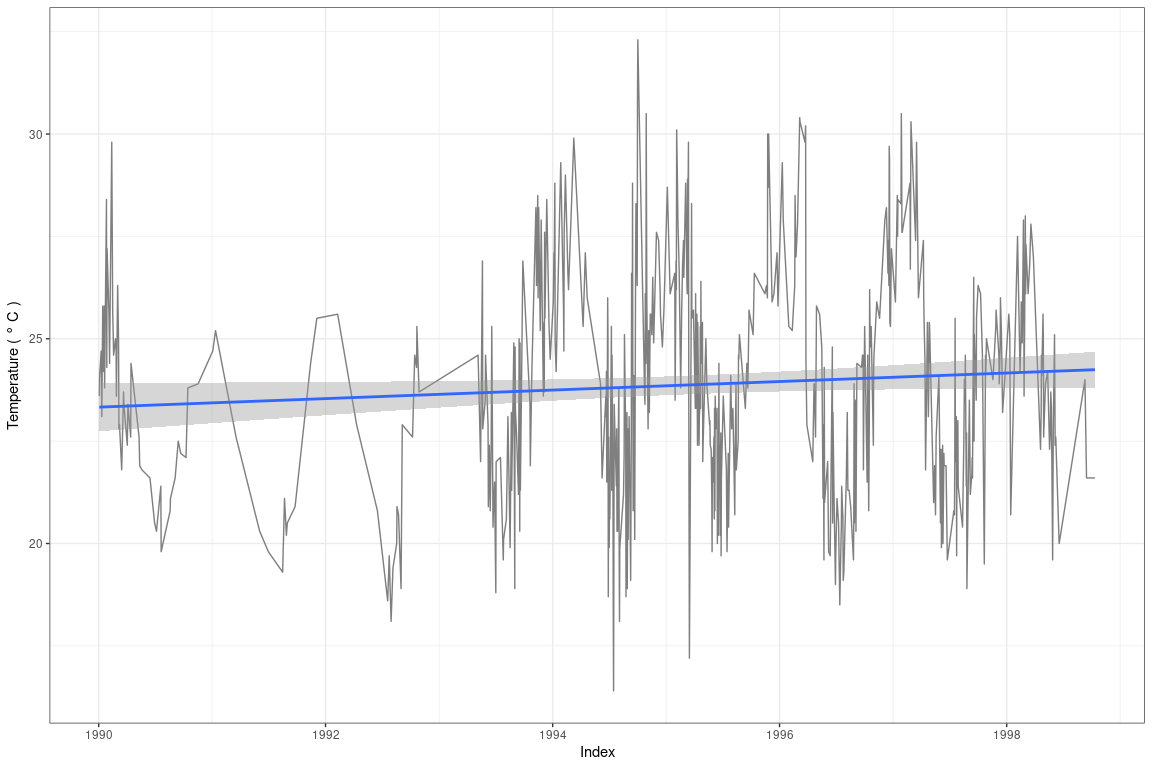
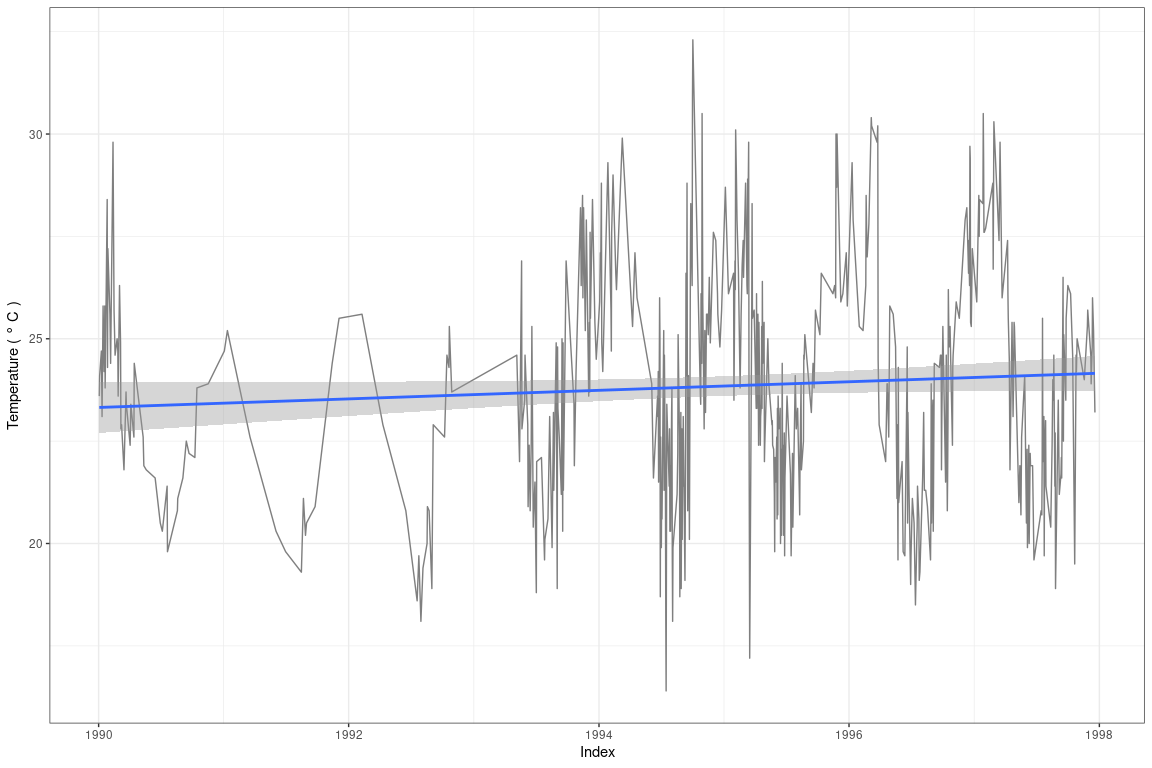
renames `ELEV.M.` --> `ELEV(M)` to ensure README is functioning properly

diff --git a/README.md b/README.md
@@ -32,15 +32,15 @@ information about all available GSOD stations that is automatically
 attached via lazy-loading when loading the package. Let’s have a quick
 look at it.
 
-    ##     USAF  WBAN STATION.NAME CTRY STATE ICAO   LAT    LON ELEV.M.    BEGIN      END
-    ## 1 007018 99999   WXPOD 7018                  0.00  0.000  7018.0 20110309 20130730
-    ## 2 007026 99999   WXPOD 7026   AF             0.00  0.000  7026.0 20120713 20170822
-    ## 3 007070 99999   WXPOD 7070   AF             0.00  0.000  7070.0 20140923 20150926
-    ## 4 008260 99999    WXPOD8270                  0.00  0.000     0.0 20050101 20120731
-    ## 5 008268 99999    WXPOD8278   AF            32.95 65.567  1156.7 20100519 20120323
-    ## 6 008307 99999   WXPOD 8318   AF             0.00  0.000  8318.0 20100421 20100421
+    ##     USAF  WBAN STATION NAME CTRY STATE ICAO   LAT    LON ELEV(M)      BEGIN        END
+    ## 1 007018 99999   WXPOD 7018                  0.00  0.000  7018.0 2011-03-09 2013-07-30
+    ## 2 007026 99999   WXPOD 7026   AF             0.00  0.000  7026.0 2012-07-13 2017-08-22
+    ## 3 007070 99999   WXPOD 7070   AF             0.00  0.000  7070.0 2014-09-23 2015-09-26
+    ## 4 008260 99999    WXPOD8270                  0.00  0.000     0.0 2005-01-01 2012-07-31
+    ## 5 008268 99999    WXPOD8278   AF            32.95 65.567  1156.7 2010-05-19 2012-03-23
+    ## 6 008307 99999   WXPOD 8318   AF             0.00  0.000  8318.0 2010-04-21 2010-04-21
 
-Unfortunatelly, the data formatting and consistency of this official
+Unfortunately, the data formatting and consistency of this official
 table is rather poor. Hence, I thought it might be quite helpful to sort
 out some inconveniences above all else. The referring function is called
 *gsodReformat()* and allows to reformat elevation (decimeters to meters)
@@ -144,14 +144,14 @@ this would more or less look like this.
     shp_kili_south <- 
       gsodstations |> 
       gsodReformat() |> 
-      filter(STATION.NAME %in% station_names) |> 
+      filter(`STATION NAME` %in% station_names) |> 
       gsodDf2Sp()
 
     shp_kili_south@data
 
-    ##     USAF  WBAN STATION.NAME CTRY STATE ICAO ELEV.M.    BEGIN      END
-    ## 1 637890 99999       ARUSHA   TZ       HTAR  138.68 19600111 20211119
-    ## 2 637900 99999        MOSHI   TZ       HTMS   83.10 19490909 20211003
+    ##     USAF  WBAN STATION.NAME CTRY STATE ICAO ELEV.M.      BEGIN        END
+    ## 1 637890 99999       ARUSHA   TZ       HTAR  138.68 1960-01-11 2022-05-02
+    ## 2 637900 99999        MOSHI   TZ       HTMS   83.10 1949-09-09 2022-04-28
 
 **Downloading data**
 
@@ -168,12 +168,12 @@ outcome of the various station selection functions.
     # Subset station list by name, and display related USAF code
     moshi <- subset(
       gsodstations
-      , STATION.NAME == "MOSHI"
+      , `STATION NAME` == "MOSHI"
     )
     head(moshi)
 
-    ##         USAF  WBAN STATION.NAME CTRY STATE ICAO   LAT    LON ELEV.M.    BEGIN      END
-    ## 13475 637900 99999        MOSHI   TZ       HTMS -3.35 37.333     831 19490909 20211003
+    ##         USAF  WBAN STATION NAME CTRY STATE ICAO   LAT    LON ELEV(M)      BEGIN        END
+    ## 13486 637900 99999        MOSHI   TZ       HTMS -3.35 37.333     831 1949-09-09 2022-04-28
 
 If you are not willing to download the entire dataset from a given
 station (which is the default setting), but rather a limited period of
@@ -192,17 +192,14 @@ from Moshi, Tanzania, for the years 1990 to 2000.
 
     # Not run: Download data from Moshi, Tanzania, from 1990 to 1995
     gsod_moshi <- dlGsodStations(usaf = moshi$USAF,
-                                 start_year = 1990, end_year = 2000,
-                                 dsn = paste0(getwd(), "/data/moshi/"),
+                                 start_year = 1990, end_year = 1997,
+                                 dsn = tempdir(),
                                  unzip = TRUE)
 
     # Plot temperature data (but: time series not continuous!)
     library(ggplot2)
 
-    # Remove obsolete columns
-    gsod_moshi <- gsod_moshi[, -grep("NC", names(gsod_moshi))]
-    # Reformat date and temperature column
-    gsod_moshi$YEARMODA <- as.Date(strptime(gsod_moshi$YEARMODA, format = "%Y%m%d"))
+    # Convert temperature column
     gsod_moshi$TEMP <- toCelsius(gsod_moshi$TEMP, digits = 1)
 
     ggplot(aes(y = TEMP, x = YEARMODA), data = gsod_moshi) + 
